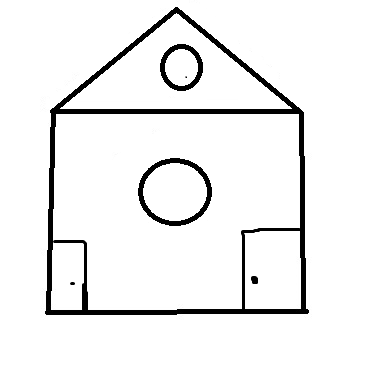
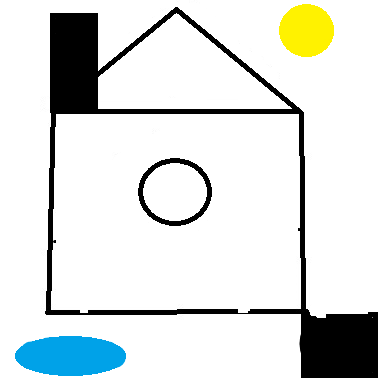
Add files via upload

diff --git a/uks1.html b/uks1.html
@@ -8,17 +8,20 @@
 <h1>Map / Area kasutamine</h1>
 <img src="Majakepilt.png" alt="Majakepilt" usemap="#majake">
 <map name="majake">
-    <area shape="circle" coords="175,210,35" href="aken.html" alt="aken">
-    <area shape="rect" coords="242,243,301,303" href="sein.html" alt="uks1">
-    <area shape="rect" coords="84,85,50,49" href="sein.html" alt="uks2">
-    <area shape="rect" coords="53,46,304,299" href="sein.html" alt="sein">
-    <area shape="circle" coords="182,201,19" href="aken.html" alt="aken2">
-    <area shape="poly" coords="54,298,177" href="katus.html" alt="katus">
+    <area shape="circle" coords="308,334,26" href="uks1.html" alt="päike">
+    <area shape="circle" coords="176,202,35" href="aken.html" alt="aken">
+    <area shape="rect" coords="54,111,302,310" href="sein.html" alt="sein">
+    <area shape="poly" coords="54,111,298,111,178,8" href="katus.html" alt="katus">
+    <area shape="circle" coords="71,126,1" href="uks2.html" alt="järv">
+
+
+
+
 
 
 </map>
 <div>
-    uks1 --see on uks1
+    järv --see on järv
 </div>
 </body>
 </html>

diff --git a/aken.html b/aken.html
@@ -8,12 +8,13 @@
 <h1>Map / Area kasutamine</h1>
 <img src="Majakepilt.png" alt="Majakepilt" usemap="#majake">
 <map name="majake">
-    <area shape="circle" coords="175,210,35" href="aken.html" alt="aken">
-    <area shape="rect" coords="242,243,301,303" href="sein.html" alt="uks1">
-    <area shape="rect" coords="84,85,50,49" href="sein.html" alt="uks2">
-    <area shape="rect" coords="53,46,304,299" href="sein.html" alt="sein">
-    <area shape="circle" coords="182,201,19" href="aken.html" alt="aken2">
-    <area shape="poly" coords="54,298,177" href="katus.html" alt="katus">
+    <area shape="circle" coords="308,334,26" href="uks1.html" alt="päike">
+    <area shape="circle" coords="176,202,35" href="aken.html" alt="aken">
+    <area shape="rect" coords="54,111,302,310" href="sein.html" alt="sein">
+    <area shape="poly" coords="54,111,298,111,178,8" href="katus.html" alt="katus">
+    <area shape="circle" coords="71,126,1" href="uks2.html" alt="järv">
+
+
 </map>
 <div>
     Aken --see on aken

diff --git a/map.html b/map.html
@@ -8,12 +8,11 @@
 <h1>Map / Area kasutamine</h1>
 <img src="Majakepilt.png" alt="Majakepilt" usemap="#majake">
 <map name="majake">
-    <area shape="circle" coords="175,210,35" href="aken.html" alt="aken">
-    <area shape="rect" coords="242,243,301,303" href="sein.html" alt="uks1">
-    <area shape="rect" coords="84,85,50,49" href="sein.html" alt="uks2">
-    <area shape="rect" coords="53,46,304,299" href="sein.html" alt="sein">
-    <area shape="circle" coords="182,201,19" href="aken.html" alt="aken2">
-    <area shape="poly" coords="54,298,177" href="katus.html" alt="katus">
+    <area shape="circle" coords="308,334,26" href="uks1.html" alt="päike">
+    <area shape="circle" coords="176,202,35" href="aken.html" alt="aken">
+    <area shape="rect" coords="54,111,302,310" href="sein.html" alt="sein">
+    <area shape="poly" coords="54,111,298,111,178,8" href="katus.html" alt="katus">
+    <area shape="circle" coords="71,126,1" href="uks2.html" alt="järv">
 
 </map>
 </body>

diff --git a/sein.html b/sein.html
@@ -8,12 +8,12 @@
 <h1>Map / Area kasutamine</h1>
 <img src="Majakepilt.png" alt="Majakepilt" usemap="#majake">
 <map name="majake">
-    <area shape="circle" coords="175,210,35" href="aken.html" alt="aken">
-    <area shape="rect" coords="242,243,301,303" href="sein.html" alt="uks1">
-    <area shape="rect" coords="84,85,50,49" href="sein.html" alt="uks2">
-    <area shape="rect" coords="53,46,304,299" href="sein.html" alt="sein">
-    <area shape="circle" coords="182,201,19" href="aken.html" alt="aken2">
-    <area shape="poly" coords="54,298,177" href="katus.html" alt="katus">
+    <area shape="circle" coords="308,334,26" href="uks1.html" alt="päike">
+    <area shape="circle" coords="176,202,35" href="aken.html" alt="aken">
+    <area shape="rect" coords="54,111,302,310" href="sein.html" alt="sein">
+    <area shape="poly" coords="54,111,298,111,178,8" href="katus.html" alt="katus">
+    <area shape="circle" coords="71,126,1" href="uks2.html" alt="järv">
+
 
 </map>
 <div>

diff --git a/katus.html b/katus.html
@@ -8,12 +8,11 @@
 <h1>Map / Area kasutamine</h1>
 <img src="Majakepilt.png" alt="Majakepilt" usemap="#majake">
 <map name="majake">
-    <area shape="circle" coords="175,210,35" href="aken.html" alt="aken">
-    <area shape="rect" coords="242,243,301,303" href="sein.html" alt="uks1">
-    <area shape="rect" coords="84,85,50,49" href="sein.html" alt="uks2">
-    <area shape="rect" coords="53,46,304,299" href="sein.html" alt="sein">
-    <area shape="circle" coords="182,201,19" href="aken.html" alt="aken2">
-    <area shape="poly" coords="54,298,177" href="katus.html" alt="katus">
+    <area shape="circle" coords="308,334,26" href="uks1.html" alt="päike">
+    <area shape="circle" coords="176,202,35" href="aken.html" alt="aken">
+    <area shape="rect" coords="54,111,302,310" href="sein.html" alt="sein">
+    <area shape="poly" coords="54,111,298,111,178,8" href="katus.html" alt="katus">
+    <area shape="circle" coords="71,126,1" href="uks2.html" alt="järv">
 
 </map>
 <div>

diff --git a/aken2.html b/aken2.html
@@ -8,12 +8,11 @@
 <h1>Map / Area kasutamine</h1>
 <img src="Majakepilt.png" alt="Majakepilt" usemap="#majake">
 <map name="majake">
-    <area shape="circle" coords="175,210,35" href="aken.html" alt="aken">
-    <area shape="rect" coords="242,243,301,303" href="sein.html" alt="uks1">
-    <area shape="rect" coords="84,85,50,49" href="sein.html" alt="uks2">
-    <area shape="rect" coords="53,46,304,299" href="sein.html" alt="sein">
-    <area shape="circle" coords="182,201,19" href="aken.html" alt="aken2">
-    <area shape="poly" coords="54,298,177" href="katus.html" alt="katus">
+    <area shape="circle" coords="308,334,26" href="uks1.html" alt="päike">
+    <area shape="circle" coords="176,202,35" href="aken.html" alt="aken">
+    <area shape="rect" coords="54,111,302,310" href="sein.html" alt="sein">
+    <area shape="poly" coords="54,111,298,111,178,8" href="katus.html" alt="katus">
+    <area shape="circle" coords="71,126,1" href="uks2.html" alt="järv">
 
 
 </map>

diff --git a/uks2.html b/uks2.html
@@ -8,12 +8,14 @@
 <h1>Map / Area kasutamine</h1>
 <img src="Majakepilt.png" alt="Majakepilt" usemap="#majake">
 <map name="majake">
-    <area shape="circle" coords="175,210,35" href="aken.html" alt="aken">
-    <area shape="rect" coords="242,243,301,303" href="sein.html" alt="uks1">
-    <area shape="rect" coords="84,85,50,49" href="sein.html" alt="uks2">
-    <area shape="rect" coords="53,46,304,299" href="sein.html" alt="sein">
-    <area shape="circle" coords="182,201,19" href="aken.html" alt="aken2">
-    <area shape="poly" coords="54,298,177" href="katus.html" alt="katus">
+    <area shape="circle" coords="308,334,26" href="uks1.html" alt="päike">
+    <area shape="circle" coords="176,202,35" href="aken.html" alt="aken">
+    <area shape="rect" coords="54,111,302,310" href="sein.html" alt="sein">
+    <area shape="poly" coords="54,111,298,111,178,8" href="katus.html" alt="katus">
+    <area shape="circle" coords="71,126,1" href="uks2.html" alt="järv">
+
+
+
 
 
 
